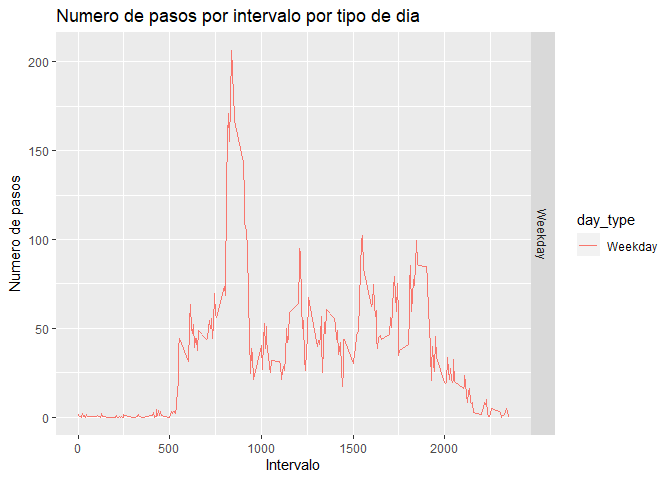
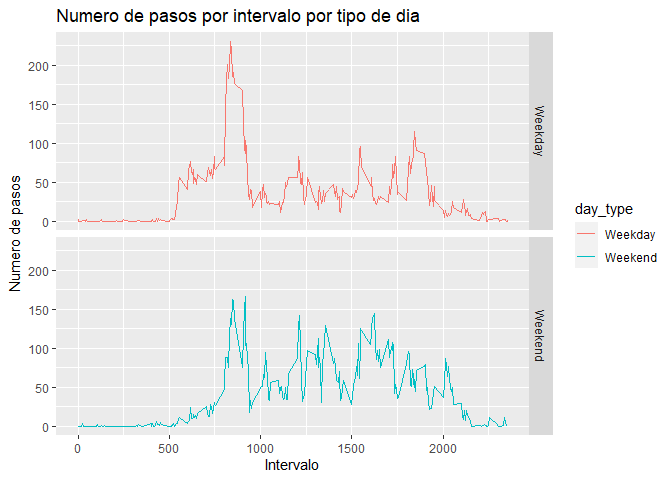
v2

diff --git a/PA1_template.html b/PA1_template.html
@@ -425,9 +425,6 @@ print(paste(&quot;El valor de la mediana es&quot;,median(pasospordia$total_pasos
     intervalo_pasos[intervalos_max, ]</code></pre>
 <pre><code>##     interval    steps
 ## 104      835 206.1698</code></pre>
-<pre><code>#intervalo que tiene los pasos promedio más altos
-print (paste(&quot;El intervalo con los pasos promedio más altos es &quot;,   intervalo_pasos[intervalos_max, ]$interval,&quot; y el número de pasos para ese intervalo es &quot;,
-         round(intervalo_pasos[intervalos_max, ]$steps, digits = 1)))</code></pre>
 </div>
 <div id="imputing-missing-values" class="section level2">
 <h2>Imputing missing values</h2>
@@ -471,12 +468,13 @@ print(paste(&quot;El valor de la mediana con datos a N/A imputados es&quot;,medi
 <pre class="r"><code>    #Función para determinar si la fecha es un día de la semana
     semana_dia &lt;- function(valor_fecha) {
       semdia &lt;- weekdays(as.Date(valor_fecha, &#39;%Y-%m-%d&#39;))
-      if  (!(semdia == &#39;Saturday&#39; || semdia == &#39;Sunday&#39;)) {
-        a &lt;- &#39;Weekday&#39;
-      } else {
-        a &lt;- &#39;Weekend&#39;
+      if   (!(semdia == &#39;sábado&#39; || semdia == &#39;domingo&#39;)) {
+           a &lt;- &#39;Weekday&#39;
       }
-      a
+      else {
+           a &lt;- &#39;Weekend&#39;
+      }
+     
     }
     #Aplicar la función al conjunto de datos para crear una nueva variable de tipo de día
     datos_asignados$day_type &lt;- as.factor(sapply(datos_asignados$date, semana_dia))
@@ -492,7 +490,7 @@ print(paste(&quot;El valor de la mediana con datos a N/A imputados es&quot;,medi
    facet_grid(day_type ~ ., scales = &quot;fixed&quot;, space = &quot;fixed&quot;) + 
    labs(x=&quot;Intervalo&quot;,  y = expression(&quot;Numero de pasos&quot;)) +
    ggtitle(&quot;Numero de pasos por intervalo por tipo de dia&quot;)</code></pre>
[2 lines of base64/hex data omitted]
 </div>
 
 

diff --git a/PA1_template.md b/PA1_template.md
@@ -121,11 +121,6 @@ print(paste("El valor de la mediana es",median(pasospordia$total_pasos)))
 ## 104      835 206.1698
 ```
 
-    #intervalo que tiene los pasos promedio más altos
-    print (paste("El intervalo con los pasos promedio más altos es ",   intervalo_pasos[intervalos_max, ]$interval," y el número de pasos para ese intervalo es ",
-             round(intervalo_pasos[intervalos_max, ]$steps, digits = 1)))
-
-
 ## Imputing missing values
 
 ```r
@@ -209,12 +204,13 @@ print(paste("El valor de la mediana es",median(pasospordia$total_pasos)))
     #Función para determinar si la fecha es un día de la semana
     semana_dia <- function(valor_fecha) {
       semdia <- weekdays(as.Date(valor_fecha, '%Y-%m-%d'))
-      if  (!(semdia == 'Saturday' || semdia == 'Sunday')) {
-        a <- 'Weekday'
-      } else {
-        a <- 'Weekend'
+      if   (!(semdia == 'sábado' || semdia == 'domingo')) {
+           a <- 'Weekday'
       }
-      a
+      else {
+           a <- 'Weekend'
+      }
+     
     }
     #Aplicar la función al conjunto de datos para crear una nueva variable de tipo de día
     datos_asignados$day_type <- as.factor(sapply(datos_asignados$date, semana_dia))
